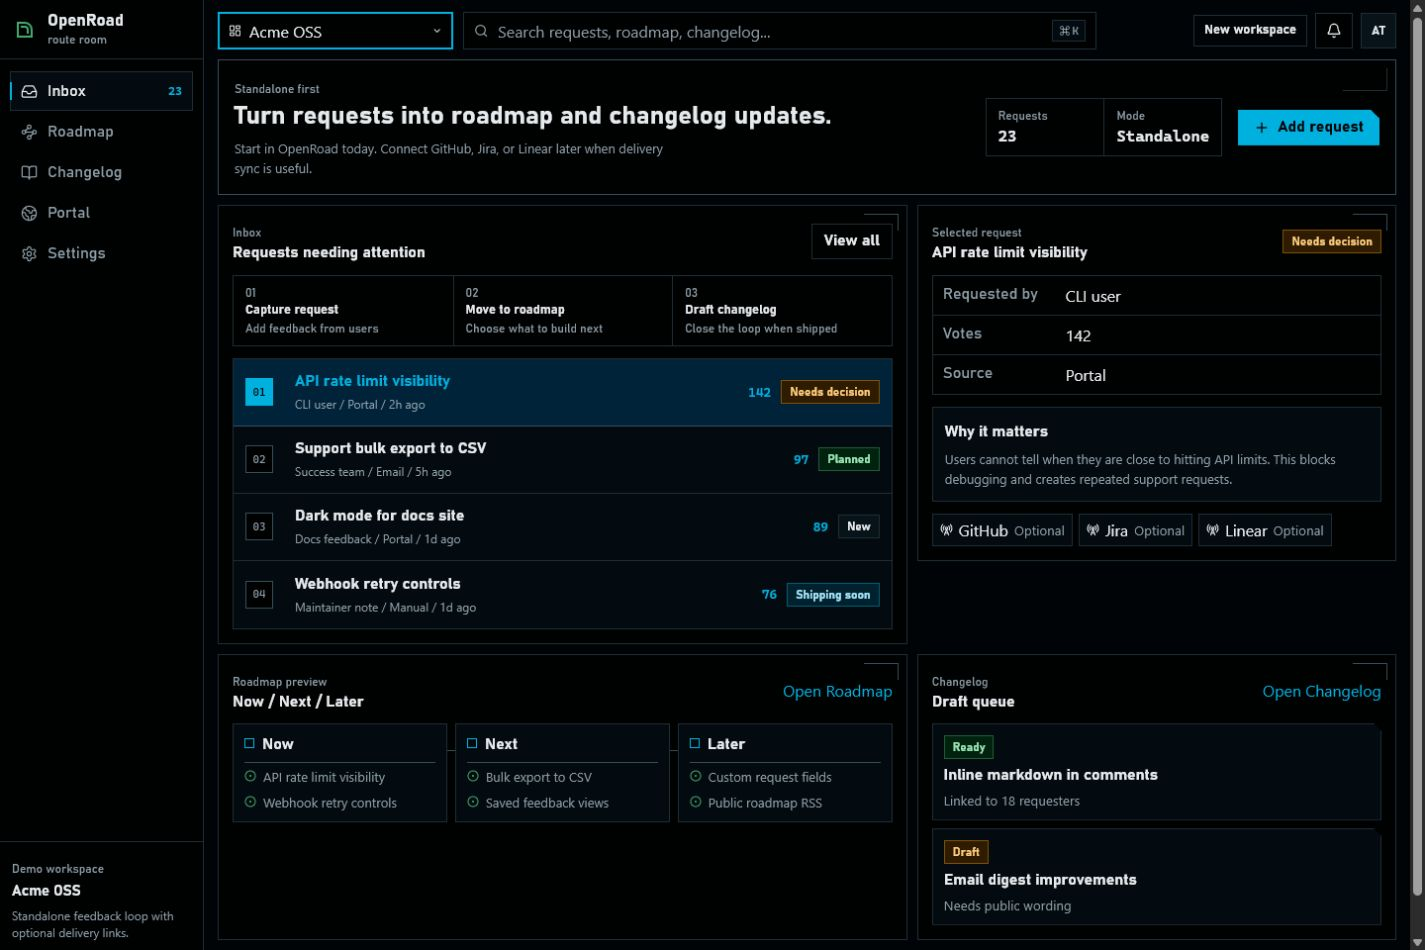
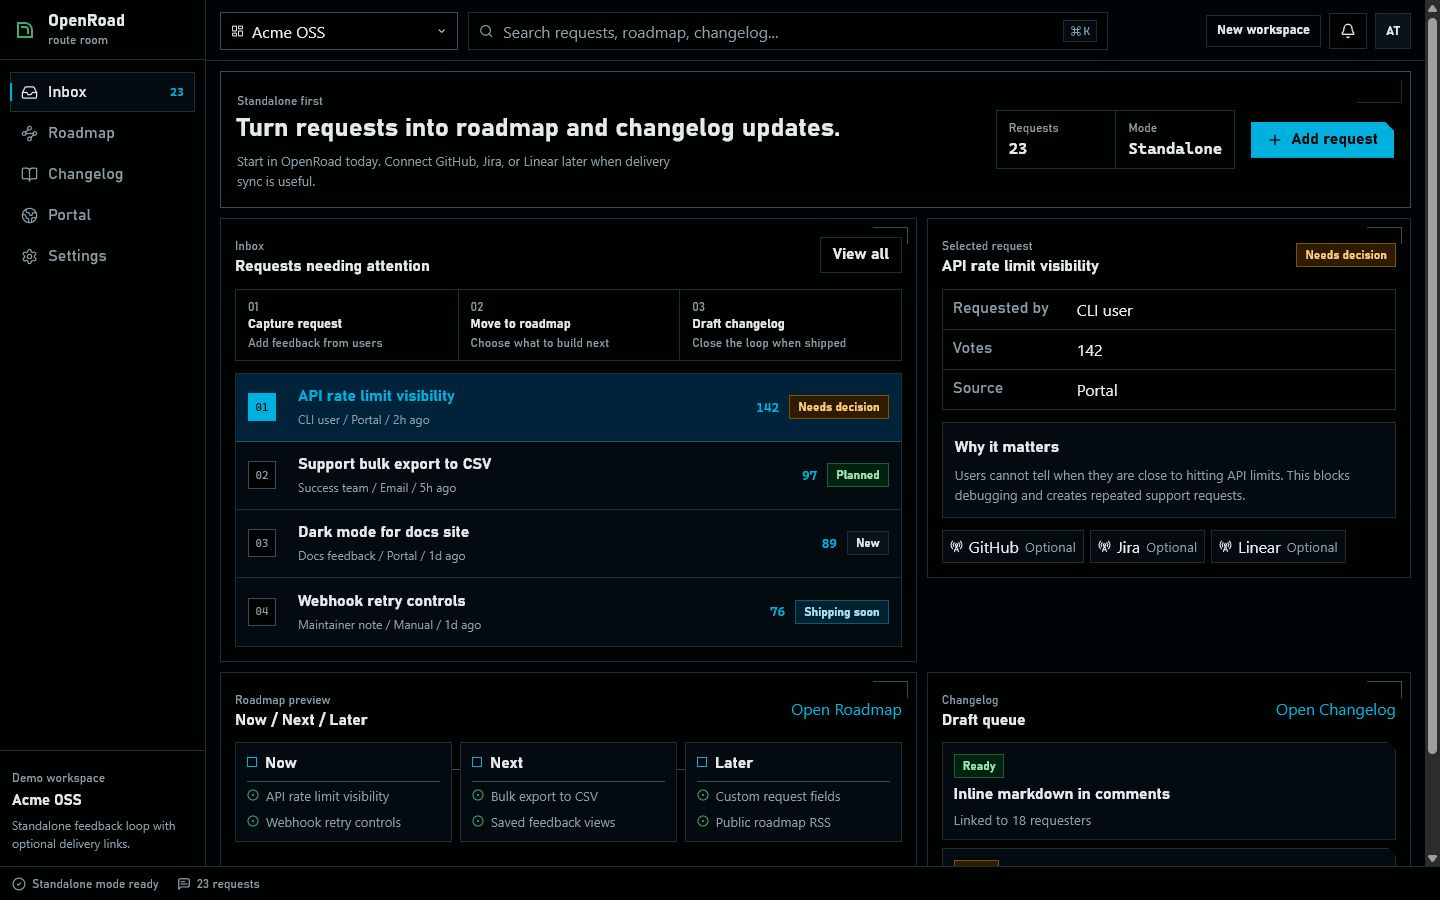
fix: keep app shell within viewport

diff --git a/src/styles.css b/src/styles.css
@@ -33,11 +33,19 @@
 
 html {
   background: var(--bg);
+  height: 100%;
 }
 
 body {
+  height: 100%;
   margin: 0;
   min-width: 320px;
+  overflow: hidden;
+}
+
+#root {
+  height: 100%;
+  overflow: hidden;
 }
 
 button,
@@ -81,7 +89,9 @@ a:hover {
   display: grid;
   grid-template-columns: 206px minmax(0, 1fr);
   grid-template-rows: minmax(0, 1fr) 34px;
-  min-height: 100vh;
+  height: 100dvh;
+  min-height: 0;
+  overflow: hidden;
 }
 
 .route-index {
@@ -90,6 +100,7 @@ a:hover {
   display: grid;
   grid-template-rows: auto minmax(0, 1fr) auto;
   min-height: 0;
+  overflow: hidden;
 }
 
 .brand,
@@ -220,15 +231,24 @@ a:hover {
 
 .operations-deck {
   background: var(--deck);
+  min-height: 0;
   min-width: 0;
+  overflow: auto;
   padding: 12px 14px 16px;
+  scrollbar-gutter: stable;
 }
 
 .command-deck {
+  background: var(--deck);
+  border-bottom: 1px solid var(--line);
   display: grid;
   gap: 10px;
   grid-template-columns: 238px minmax(240px, 640px) auto;
-  margin-bottom: 10px;
+  margin: -12px -14px 10px;
+  padding: 12px 14px 10px;
+  position: sticky;
+  top: -12px;
+  z-index: 4;
 }
 
 .workspace-switcher,
@@ -913,6 +933,8 @@ dd {
   grid-column: 1 / -1;
   min-height: 34px;
   padding: 0 12px;
+  position: relative;
+  z-index: 5;
 }
 
 .bottom-status span {
@@ -953,7 +975,8 @@ dd {
 
 @media (max-width: 760px) {
   .app-shell {
-    display: block;
+    grid-template-columns: 1fr;
+    grid-template-rows: auto minmax(0, 1fr) auto;
   }
 
   .route-index {
@@ -961,6 +984,7 @@ dd {
     border-right: 0;
     display: block;
     min-height: 0;
+    overflow: visible;
   }
 
   .brand {
@@ -989,7 +1013,16 @@ dd {
   }
 
   .operations-deck {
+    min-height: 0;
+    overflow: auto;
     padding: 10px;
+    scrollbar-gutter: stable;
+  }
+
+  .command-deck {
+    margin: -10px -10px 10px;
+    padding: 10px;
+    top: -10px;
   }
 
   .workspace-form,
@@ -1050,6 +1083,7 @@ dd {
 
   .bottom-status {
     gap: 4px;
+    min-height: 44px;
     padding: 8px 10px;
   }
 }

diff --git a/docs/test-plans/design-reset.md b/docs/test-plans/design-reset.md
@@ -31,6 +31,9 @@ Replace the first Signal Rail shell with a darker Workbench Plate and Map Room h
 
 - Desktop screenshot must show a clearly different visual system from the previous dark dashboard.
 - Mobile screenshot must not overflow horizontally.
+- App shell must stay fixed to the viewport with no document-level scrolling.
+- Bottom status rail must remain fully visible on desktop and mobile.
+- Long workspace content must scroll inside the operations deck.
 - Primary navigation must keep text labels on mobile.
 - Empty workspace state must remain understandable.
 - The UI must keep text readable and avoid over-dense first-use presentation.
@@ -50,5 +53,6 @@ Passed on 2026-07-03.
 - `pnpm check`: 9 tests passed; production build passed.
 - Impeccable detector: no findings for `src/App.tsx` and `src/styles.css`.
 - In-app browser QA: desktop selected-request state and mobile blank-workspace state had no horizontal overflow.
+- PWA-style shell QA: `documentScroll` and `bodyScroll` were `0`; the bottom status rail stayed visible; `.operations-deck` owned the scrollable content.
 - Focus QA: workspace selector showed the route-colored focus treatment on the command deck.
 - Saved viewport QA screenshots as `design/qa/design-reset-desktop.png` and `design/qa/design-reset-mobile-blank.png`.